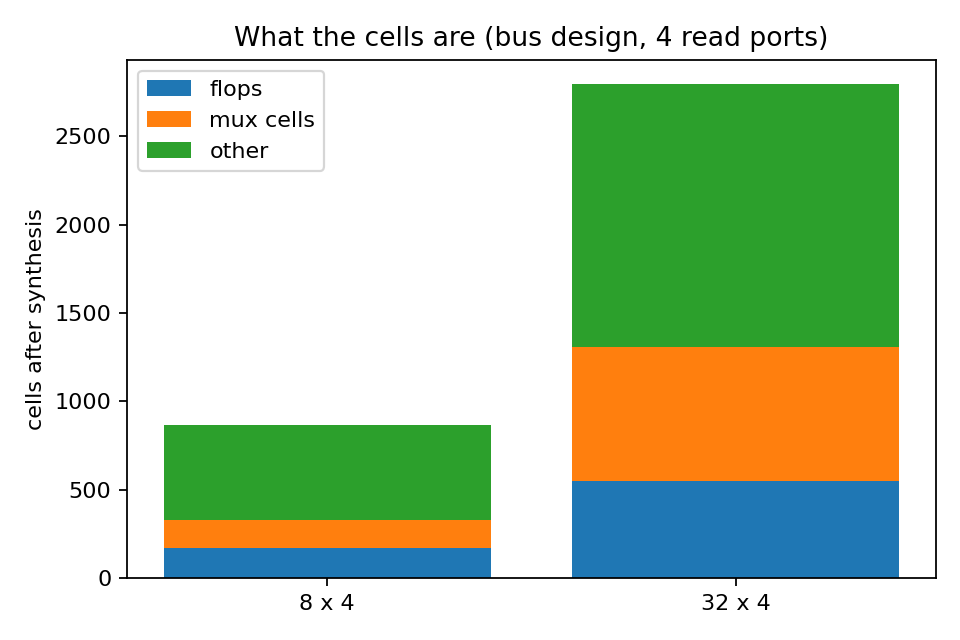
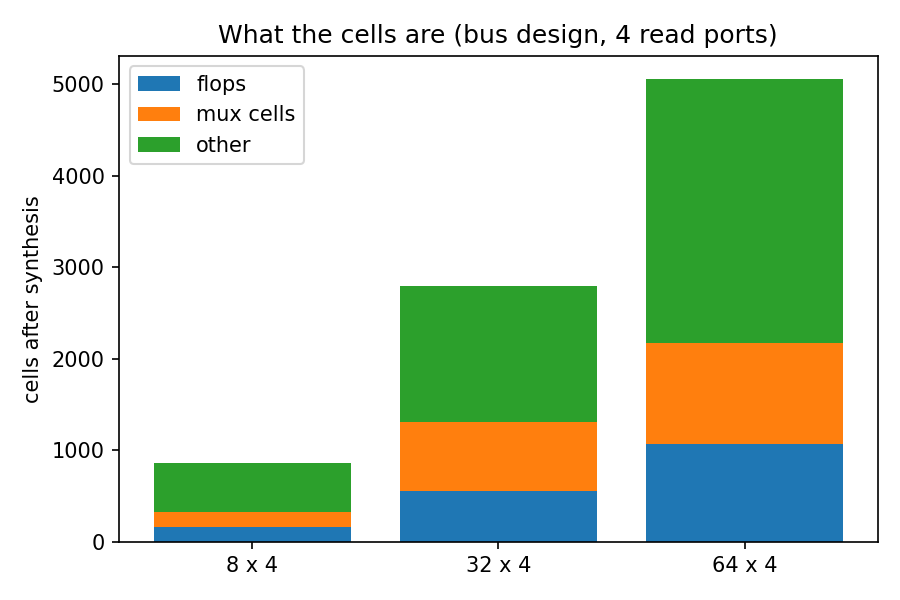
Plot 6: add 64 x 4 bar, update caption and README

diff --git a/README.md b/README.md
@@ -274,7 +274,6 @@ Written before the results and kept up to date as runs finish.
 - **One tool version.** The results compare designs against each other under one flow setting.
 - **No signoff and no tapeout.** DRC and LVS status will be reported exactly as the flow reports it, or as "not run". Nothing here has been fabricated.
 - **Clock period not chosen.** Flow runs so far use a placeholder period. The choice waits on the 2.5 ns and 6.0 ns probes.
-- **Plot 6 has two depths.** The cell breakdown shows 8 × 4 and 32 × 4 only, until the 64 × 4 bar is added.
 - **Failed or odd runs:** none yet. Each one is listed here as it happens.
 
 ---
@@ -400,7 +399,7 @@ Register-Bus/
 | First flow runs at a placeholder period | Done for 8 entries, 1 read port (core and bus); clock period not chosen yet |
 | Sweep collected into one CSV | Partly done; full 24-point sweep still to run |
 | Cost model fitted and tested on held-back runs | Partly done; validation errors 0.5% to 5.1% |
-| 6 plots with captions | Done; plot 6 needs the 64 × 4 bar |
+| 6 plots with captions | Done |
 | Report (4 to 6 pages) | Not started |
 
 **After the core work, in order:** the cost of the same-cycle bypass, a registered read output, a second platform (nangate45), one formal property with SymbiYosys, and GitHub Actions running the tests on every push.

diff --git a/docs/results.md b/docs/results.md
@@ -59,4 +59,4 @@ Negative slack on the largest points means the period has to be chosen with thos
 
 5. **5_bandwidth_vs_area.png:** Peak read bandwidth per unit area is highest at small depths with more ports, with 8 × 4 reaching about 18.6 Gbit/s at 11,000 µm² for the core. Core and bus points at the same depth and ports cluster together, so the bus costs area without changing bandwidth.
 
-6. **6_cell_breakdown.png:** For the bus at 4 read ports, the design is about 860 cells at 8 entries and about 2,800 at 32, split into flops, mux cells and other cells. Only 8 × 4 and 32 × 4 are shown; 64 × 4 is to be added.
+6. **6_cell_breakdown.png:** The bus at 4 read ports has 866, 2794 and 5052 cells at 8, 32 and 64 entries. Flops rise from 168 to 1064 and mux cells from 163 to 1109, and other cells make up the rest.
